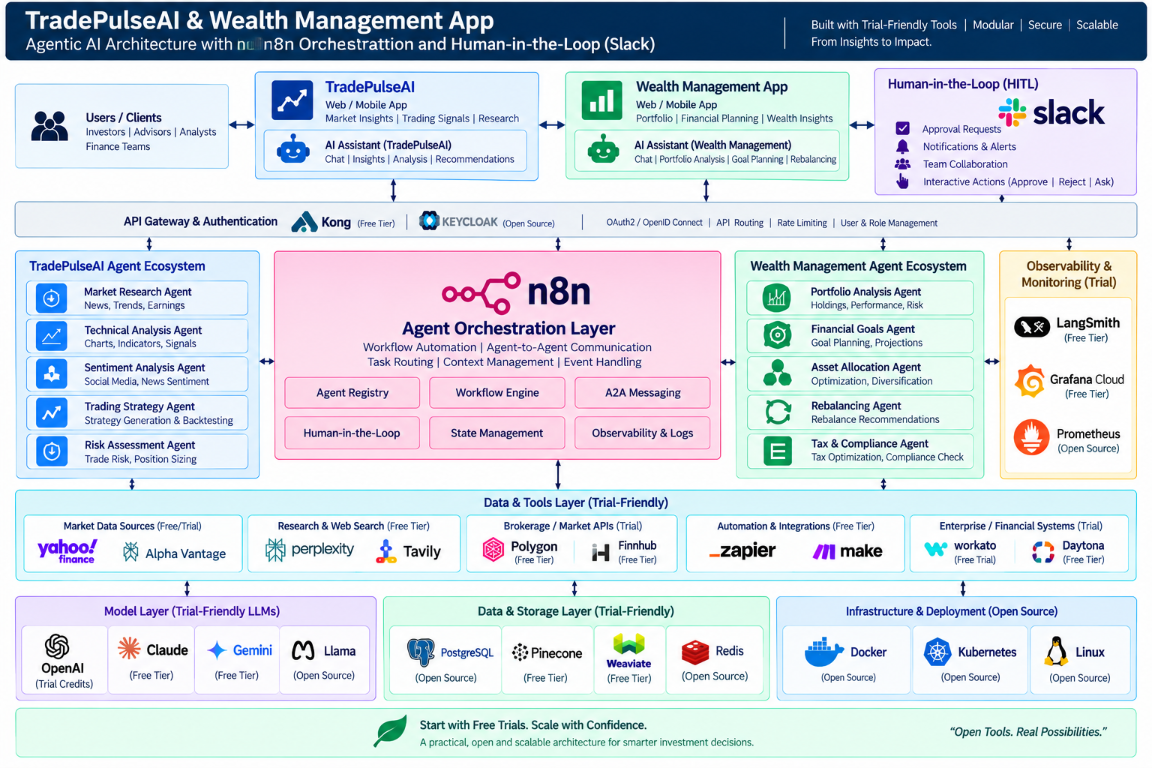
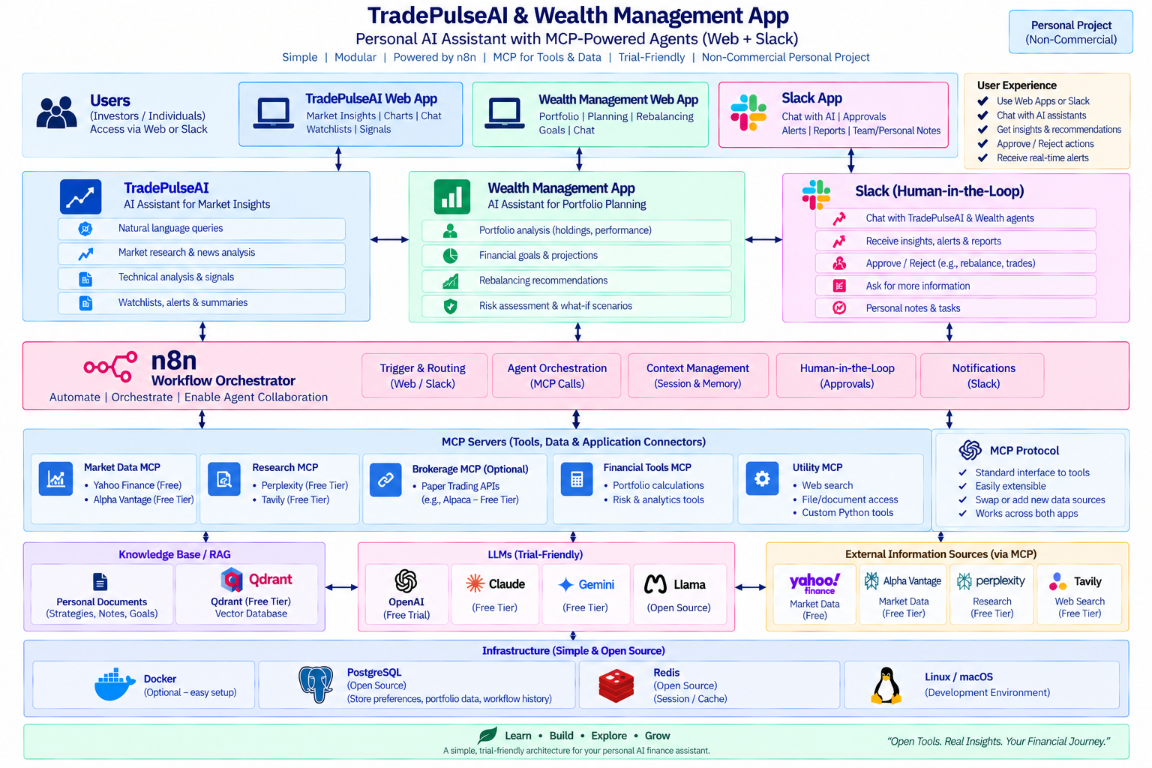
Replace final README architecture diagram

diff --git a/README.md b/README.md
@@ -24,9 +24,9 @@ applications. Components and integrations are illustrative and may change.
 
 ![Draft TradePulse AI and Wealth Management personal assistant architecture](./docs/images/personal-ai-assistant-architecture.png)
 
-### Agent Ecosystems and Orchestration
+### Personal AI Assistant Architecture (Updated)
 
-![Draft architecture showing agent ecosystems, orchestration, integrations, and infrastructure](./docs/images/agentic-ai-architecture-draft.png)
+![Updated draft TradePulse AI and Wealth Management personal assistant architecture](./docs/images/agentic-ai-architecture-draft.png)
 
 When adding a project, create a new top-level directory with a project-specific
 README and keep its source, configuration, and dependencies within that
